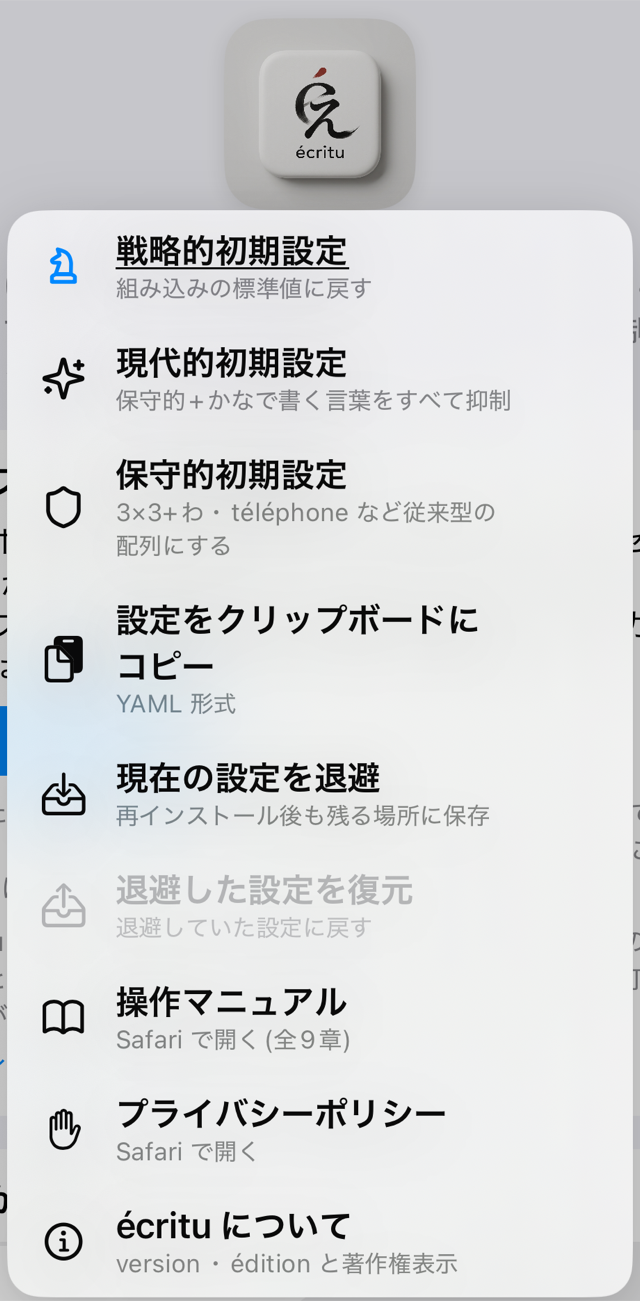
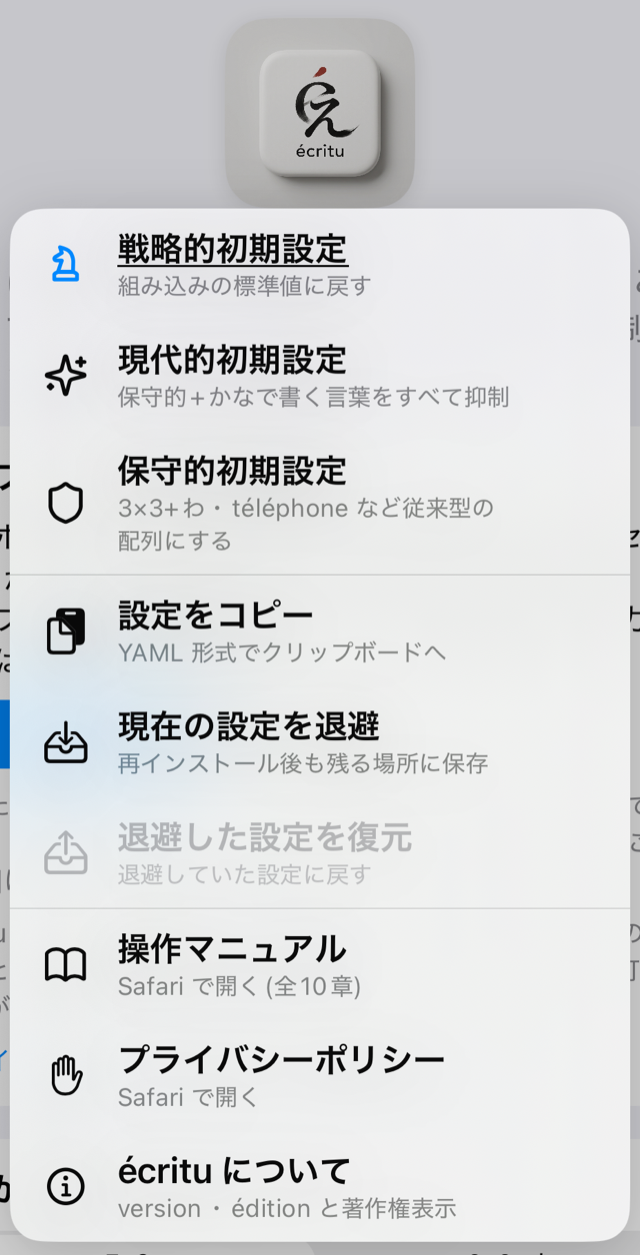
docs(manual): 第3章と目次のアイコンのメニューの画面を撮り直す(区切り線・[設定をコピー]・全10章)
シミュレーターで一時フック(環境変数でメニューを開いた状態にする。コミットしない)を使って撮影し、前回と同じ範囲で切り抜き。

diff --git a/docs/manual/presets.html b/docs/manual/presets.html
@@ -29,7 +29,7 @@
   <h2 id="icon-menu">アイコンに触れるとメニューが出る</h2>
   <p>タイトルの下の四角いアイコンに<b>触れる</b>と、触れた途端にアイコンの下にメニューが現れ、触れている間だけ表示されます。指をそのまま項目まで滑らせて離すと、その項目が実行されます。何も選ばずに離すと、メニューは消えるだけです。</p>
   <figure class="hero-shot">
-    <img src="assets/presets-icon-menu.png" alt="アイコンに触れてメニューが出ているところ。戦略的初期設定・現代的初期設定・保守的初期設定、設定をコピー、現在の設定を退避、退避した設定を復元、操作マニュアル、プライバシーポリシー、écritu について が並ぶ" width="640" height="1301">
+    <img src="assets/presets-icon-menu.png" alt="アイコンに触れてメニューが出ているところ。戦略的初期設定・現代的初期設定・保守的初期設定、設定をコピー、現在の設定を退避、退避した設定を復元、操作マニュアル、プライバシーポリシー、écritu について が並ぶ" width="640" height="1255">
     <figcaption>アイコンに触れると、その下にメニューが出る(触れている間だけ表示)</figcaption>
   </figure>
   <p>メニューの上の3つが初期設定です。それぞれ目印のアイコンが付いています — [戦略的初期設定]はチェスのナイト、[現代的初期設定]はきらめき、[保守的初期設定]は盾。いま基準にしている初期設定には名前に下線が付き、アイコンが青く表示されます。区切り線の下には[設定をコピー][現在の設定を退避][退避した設定を復元](<a href="settings.html#app-overview">第8章</a>)、もう1本の区切り線の下に[操作マニュアル](このマニュアル)、[プライバシーポリシー]、[écritu について]が並びます。</p>
